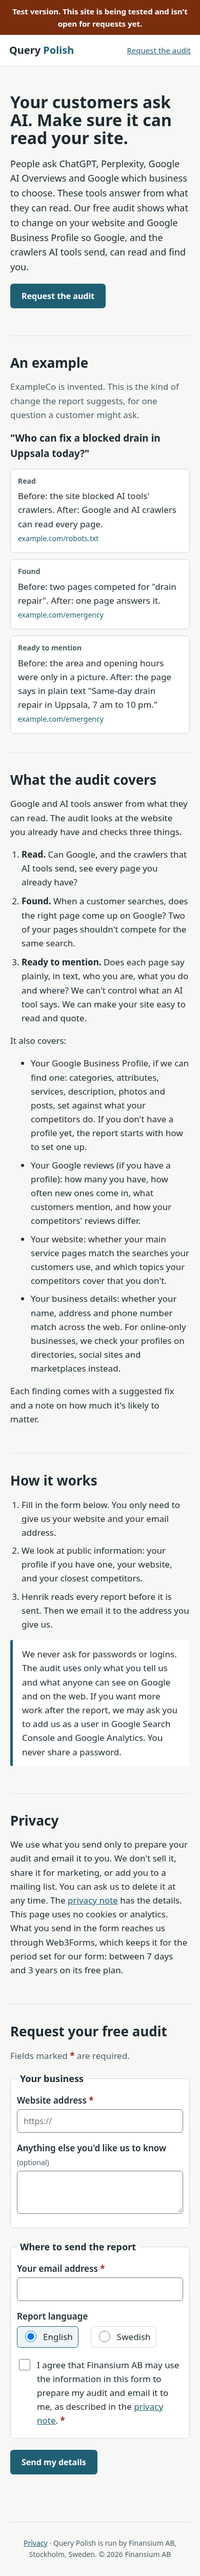
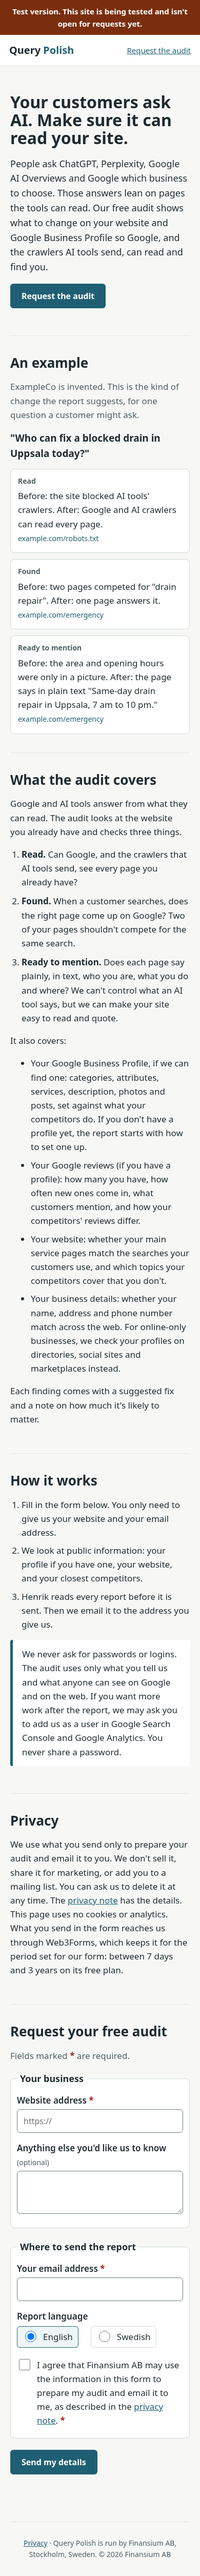
copy-ai: Zinsser edits items 2, 4, 19

Changed region(s): [[0.1231, 0.0621, 0.8923, 0.1243], [0.0615, 0.0932, 0.1231, 0.1243]]

diff --git a/docs/index.html b/docs/index.html
@@ -4,7 +4,7 @@
 <meta charset="utf-8">
 <meta name="viewport" content="width=device-width,initial-scale=1">
 <title>Query Polish: a free audit of how Google and AI tools read your site</title>
-<meta name="description" content="Your customers ask ChatGPT, Perplexity, Google AI Overviews and Google. A free audit of whether they can read and find your website. The report comes by email.">
+<meta name="description" content="Your customers ask ChatGPT, Perplexity, Google AI Overviews and Google which business to choose. This free audit checks whether those tools can read and find your website. The report comes by email.">
 <meta name="robots" content="noindex, nofollow">
 <link rel="icon" href="favicon.svg" type="image/svg+xml">
 <link rel="stylesheet" href="assets/style.css?v=4">
@@ -16,7 +16,7 @@
 <main id="main">
 <section>
 <h1>Your customers ask AI. Make sure it can read your site.</h1>
-<p class="lead">People ask ChatGPT, Perplexity, Google AI Overviews and Google which business to choose. These tools answer from what they can read. Our free audit shows what to change on your website and Google Business Profile so Google, and the crawlers AI tools send, can read and find you.</p>
+<p class="lead">People ask ChatGPT, Perplexity, Google AI Overviews and Google which business to choose. Those answers lean on pages the tools can read. Our free audit shows what to change on your website and Google Business Profile so Google, and the crawlers AI tools send, can read and find you.</p>
 <p><a class="btn" href="#audit">Request the audit</a></p>
 </section>
 <section class="example" aria-labelledby="ex-h">
@@ -35,7 +35,7 @@
 <ol class="steps three">
 <li><b>Read.</b> Can Google, and the crawlers that AI tools send, see every page you already have?</li>
 <li><b>Found.</b> When a customer searches, does the right page come up on Google? Two of your pages shouldn't compete for the same search.</li>
-<li><b>Ready to mention.</b> Does each page say plainly, in text, who you are, what you do and where? We can't control what an AI tool says. We can make your site easy to read and quote.</li>
+<li><b>Ready to mention.</b> Does each page say plainly, in text, who you are, what you do and where? We can't control what an AI tool says, but we can make your site easy to read and quote.</li>
 </ol>
 <p>It also covers:</p>
 <ul class="list">
